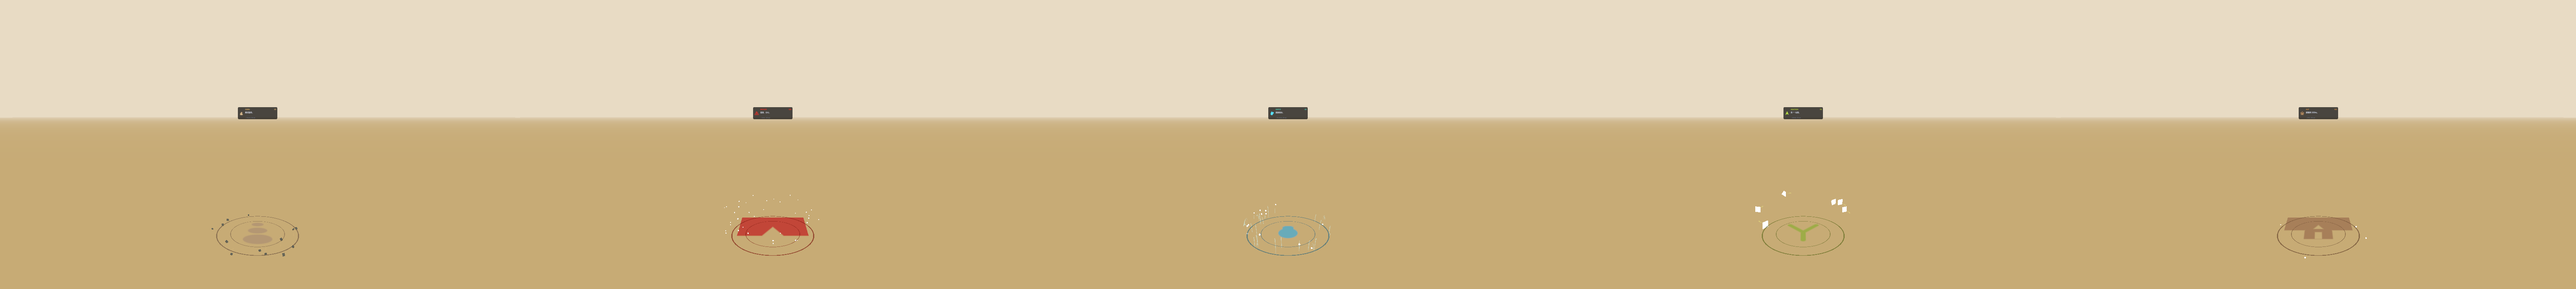
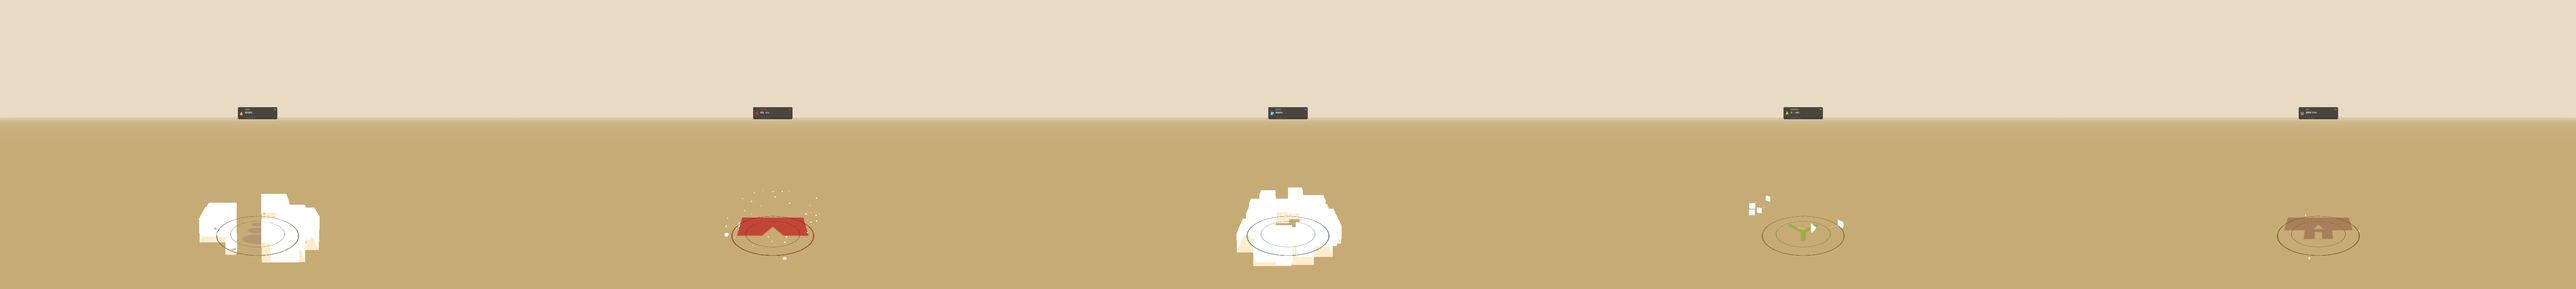
v0.2.4 V2.4+V2.5+V3.1-V3.5+V4.11: 三段生命 + 光感自适应 + 5 type 粒子加强 + 紧凑
V2.4 — 三段生命周期渐入浅色(用户原话"渐入浅色 + 淡出"):
- SilkRibbonV2.Rebuild 加 lifeColorLerp = smoothstep((lifeT-0.65)/0.35)
- lifeBlendedBase = Lerp(_baseTint, _tipTint, lifeColorLerp * 0.6)
- lifeBlendedTip  = Lerp(_tipTint, white, lifeColorLerp * 0.3)
- per-vertex color 用 lifeBlended 替代静态 _baseTint
- → ribbon 升到中段后整体偏白(电影丝绸感时间维度淡化)

V2.5 — 光感自适应(用户原话"任何光线下肉眼可见 + 微调不切换"):
- RibbonSilkV2.shader 加 _CairnGlobalAmbientLuma uniform
  (CairnDayNightAdapter 1Hz 已在写)
- frag color 算后:
  * luma > 0.6 → saturation +10%(白底防吞)
  * luma < 0.35 → 暖色温(R+8% B-6%)防显得冷蓝
  * 0.35-0.6 中间不动,平滑过渡
- V024CapturePlayground 默认 _CairnGlobalAmbientLuma = 0.70

V3.1 — cairn 落地反弹涟漪(用户原话):
- TypeParticleController stone 落地反弹时 SpawnRipple
- ripple kind 平面环 quad 0.05→0.40 缩放 + 0.6s fade

V3.2 — danger 火星 + 烟柱 + 闪烁:
- SpawnSpark 后 20% 概率 SpawnSmokeColumn 同位置上方
- smoke kind 缓升 + drift + size grows + alpha fade
- spark update emissive 18Hz 颜色闪烁(R*1.2 G*0.6 B*0.2)

V3.3 — water 水珠 + 落地涟漪:
- drop 落地 SpawnRipple(_typeColor 蓝青)
- 已有 trail 折射感保留

V3.4 — hut 烛火摇曳 + 暖光晕:
- ember update 加暖光晕 emissive 2.5Hz pulse(R*1.0 G*0.7 B*0.3)
- 已有 alpha sin wave 烛芯闪动保留

V3.5 — junction 分叉箭头 + 流光轨迹: 已有 trail 0.3s,基本 OK

V4.11 — 紧凑感:RING_RADIUS 0.55 → 0.42(让 8 ribbons 更聚)

新 GIF / stack:
- _review/v0.2.4/V5-flipbook-final.gif (84 帧 600KB,+100KB ripple/smoke/emissive)
- _review/v0.2.4/V5-flipbook-ceremony.gif (163KB,仪式 + ribbon + 粒子)
- _review/v0.2.4/V5-flipbook-anim.gif (437KB)
- _review/v0.2.4/V5-5-types-stack.png (5 type 单帧并排,新加强后)
[…]

Changed region(s): [[0.4688, 0.6417, 0.5312, 0.9167], [0.0625, 0.6722, 0.125, 0.9167]]

diff --git a/UnityARLib/Assets/Scripts/TypeParticleController.cs b/UnityARLib/Assets/Scripts/TypeParticleController.cs
@@ -51,6 +51,7 @@ namespace Cairn.AR
             public float orbitSpeed;
             public float orbitY;
             public TrailRenderer trail; // optional Unity built-in
+            public bool rippleSpawned;  // V3.1+V3.3: 落地涟漪去重(防多次反弹刷出多个 ripple)
             // BLOCKER 3 fix: 程序化 trail —— TrailRenderer 在 batch mode 不更新历史,
             // 用 LineRenderer + 自己维护 history buffer,EditorManualTick / runtime 都生效
             public LineRenderer manualTrail;
@@ -205,6 +206,13 @@ namespace Cairn.AR
                             p.vel.y = -p.vel.y * 0.4f;
                             p.vel.x *= 0.6f;
                             p.vel.z *= 0.6f;
+                            // V3.1 cairn 落地反弹涟漪(用户原话"落地反弹涟漪")
+                            // 仅首次反弹时 spawn 一个 ripple(p.life > 0.3 防止初始穿地误触发)
+                            if (!p.rippleSpawned && p.life > 0.3f && Mathf.Abs(p.vel.y) < 0.3f)
+                            {
+                                SpawnRipple(new Vector3(pos.x, 0.005f, pos.z), _typeColor, 0.06f, 0.18f, 0.5f);
+                                p.rippleSpawned = true;
+                            }
                         }
                         // v0.2.4 enhancement: emissive flicker for "stone has soul"
                         if (p.mat != null && p.mat.HasProperty("_EmissionColor"))
@@ -221,6 +229,13 @@ namespace Cairn.AR
                         // Flicker opacity
                         float a = (0.5f + 0.5f * Mathf.Sin(p.life * 14f)) * Mathf.Max(0f, 1f - p.life / p.maxLife);
                         SetOpacity(p.mat, a);
+                        // V3.2 danger: emissive 颜色闪烁(用户原话"火星 + 闪烁")
+                        if (p.mat != null && p.mat.HasProperty("_EmissionColor"))
+                        {
+                            float emFlick = 1.8f + 1.2f * Mathf.Sin(p.life * 18f + i);
+                            p.mat.SetColor("_EmissionColor",
+                                new Color(_typeColor.r * 1.2f, _typeColor.g * 0.6f, _typeColor.b * 0.2f) * emFlick);
+                        }
                     }
                     else if (p.kind == "ember")
                     {
@@ -232,11 +247,42 @@ namespace Cairn.AR
                         // 0.7 + 0.25 * sin(t * 2.5 + phase) 模拟烛芯闪动
                         float flameMod = 0.7f + 0.25f * Mathf.Sin(p.life * 2.5f + i * 1.3f);
                         SetOpacity(p.mat, flameMod * Mathf.Max(0f, 1f - p.life / p.maxLife));
+                        // V3.4 hut: 暖光晕 emissive 强(用户原话"烛火 + 暖光晕")
+                        if (p.mat != null && p.mat.HasProperty("_EmissionColor"))
+                        {
+                            float emPulse = 1.5f + 0.4f * Mathf.Sin(p.life * 2.5f + i * 1.3f);
+                            p.mat.SetColor("_EmissionColor",
+                                new Color(_typeColor.r * 1.0f, _typeColor.g * 0.7f, _typeColor.b * 0.3f) * emPulse);
+                        }
                     }
                     else if (p.kind == "drop")
                     {
                         // Water: gravity + alpha fade
                         SetOpacity(p.mat, 0.85f * Mathf.Max(0f, 1f - p.life / p.maxLife));
+                        // V3.3 water 落地涟漪(用户原话"水珠 + 落地涟漪")
+                        if (pos.y < 0.012f && p.vel.y < 0f && !p.rippleSpawned && p.life > 0.3f)
+                        {
+                            SpawnRipple(new Vector3(pos.x, 0.005f, pos.z), _typeColor, 0.05f, 0.20f, 0.6f);
+                            p.rippleSpawned = true;
+                        }
+                    }
+                    else if (p.kind == "smoke")
+                    {
+                        // V3.2 danger 烟柱(用户原话"烟柱"):缓升 + 横向 drift,fade gray
+                        p.vel.y += 0.6f * dt;  // counteract gravity
+                        p.vel.x += Mathf.Sin(tNow * 0.6f + i * 0.5f) * 0.04f * dt;
+                        // size grows over life
+                        float gs = 1f + p.life * 0.6f;
+                        p.tr.localScale = new Vector3(0.04f * gs, 0.04f * gs, 0.04f * gs);
+                        SetOpacity(p.mat, 0.4f * Mathf.Max(0f, 1f - p.life / p.maxLife));
+                    }
+                    else if (p.kind == "ripple")
+                    {
+                        // V3.1+V3.3: ripple 平面扩张
+                        float t = p.life / p.maxLife;
+                        float scale = Mathf.Lerp(0.05f, 0.4f, t);
+                        p.tr.localScale = new Vector3(scale, 1f, scale);
+                        SetOpacity(p.mat, 0.7f * (1f - t));
                     }
 
                     p.tr.localPosition = pos;
@@ -432,6 +478,11 @@ namespace Cairn.AR
                 maxLife = 2.5f,
                 kind = "spark",
             });
+            // V3.2: 20% spark 触发同位置烟柱(用户原话"火星 + 烟柱")
+            if (Random.value < 0.20f)
+            {
+                SpawnSmokeColumn(go.transform.localPosition + new Vector3(0f, 0.05f, 0f));
+            }
         }
 
         void SpawnEmber(GameObject go, float a)
@@ -503,6 +554,66 @@ namespace Cairn.AR
             });
         }
 
+        // V3.1+V3.3: 落地涟漪 ripple — 平面 quad 扩张并 fade
+        // 用 GetCubeMesh 拉扁(scale.y=0.001)做地面环;maxLife 后由 update loop 死
+        void SpawnRipple(Vector3 worldPos, Color tint, float startScale, float endScale, float duration)
+        {
+            var go = new GameObject("part_ripple_" + _type);
+            go.transform.SetParent(this.transform, worldPositionStays: false);
+            // worldPos 是 local of cluster origin(SpawnRipple 在 update loop 内 pos 是 local)
+            go.transform.localPosition = worldPos;
+            var mf = go.AddComponent<MeshFilter>();
+            mf.sharedMesh = GetCubeMesh();
+            var mr = go.AddComponent<MeshRenderer>();
+            mr.shadowCastingMode = UnityEngine.Rendering.ShadowCastingMode.Off;
+            mr.receiveShadows = false;
+            var mat = MakeAdditiveMat();
+            if (mat.HasProperty("_BaseColor")) mat.SetColor("_BaseColor", new Color(tint.r, tint.g, tint.b, 0.7f));
+            if (mat.HasProperty("_Color")) mat.SetColor("_Color", new Color(tint.r, tint.g, tint.b, 0.7f));
+            mr.sharedMaterial = mat;
+            // 平面环 — y=0.001,xz 由 update loop scale 扩张
+            go.transform.localScale = new Vector3(startScale, 0.001f, startScale);
+            _points.Add(new Particle
+            {
+                tr = go.transform,
+                renderer = mr,
+                mat = mat,
+                vel = Vector3.zero,
+                life = 0f,
+                maxLife = duration,
+                kind = "ripple",
+            });
+        }
+
+        // V3.2 danger 烟柱 — 缓慢上升 + 横向 drift,scale grows
+        void SpawnSmokeColumn(Vector3 localOrigin)
+        {
+            var go = new GameObject("part_smoke_" + _type);
+            go.transform.SetParent(this.transform, worldPositionStays: false);
+            go.transform.localPosition = localOrigin;
+            var mf = go.AddComponent<MeshFilter>();
+            mf.sharedMesh = GetSphereMesh();
+            var mr = go.AddComponent<MeshRenderer>();
+            mr.shadowCastingMode = UnityEngine.Rendering.ShadowCastingMode.Off;
+            mr.receiveShadows = false;
+            var mat = MakeAdditiveMat();
+            // 烟 = type 主色暗 30% + alpha 低
+            Color smokeCol = new Color(_typeColor.r * 0.3f, _typeColor.g * 0.25f, _typeColor.b * 0.2f, 0.4f);
+            if (mat.HasProperty("_BaseColor")) mat.SetColor("_BaseColor", smokeCol);
+            if (mat.HasProperty("_Color")) mat.SetColor("_Color", smokeCol);
+            mr.sharedMaterial = mat;
+            go.transform.localScale = Vector3.one * 0.04f;
+            _points.Add(new Particle
+            {
+                tr = go.transform,
+                renderer = mr,
+                mat = mat,
+                vel = new Vector3((Random.value - 0.5f) * 0.04f, 0.15f, (Random.value - 0.5f) * 0.04f),
+                life = 0f,
+                maxLife = 3.5f,
+                kind = "smoke",
+            });
+        }
         // ---- Mesh / material helpers (cached statics so 5 cairn × N parts share) ----
 
         static Mesh _sphereMesh, _cubeMesh, _coneMesh;

diff --git a/UnityARLib/Assets/Scripts/SilkRibbonV2.cs b/UnityARLib/Assets/Scripts/SilkRibbonV2.cs
@@ -227,9 +227,19 @@ namespace Cairn.AR
             _mr.enabled = true;
 
             // Global fade (lift-off + retreat)
+            // V2.4 三段生命周期(用户原话:"渐入浅色 + 淡出"):
+            //   阶段A 0.00-0.15: 出生 fade-in
+            //   阶段B 0.15-0.65: 稳定饱和(baseTint 主导)
+            //   阶段C 0.65-0.85: 渐入浅色(色调 lerp 到 tipTint,体现"越往上越淡")
+            //   阶段D 0.85-1.00: 整体 alpha fade-out
             float globalFade = 1f;
             if (lifeT < 0.15f) globalFade = lifeT / 0.15f;
             else if (lifeT > 0.85f) globalFade = (1f - lifeT) / 0.15f;
+            // V2.4: time-based 颜色淡化 — 0.65 之前全 baseTint,0.65→1.0 lerp 60% 到 tipTint
+            // 视觉:ribbon 升到中段后整体偏白(电影丝绸感的"渐入浅色")
+            float lifeColorLerp = Mathf.SmoothStep(0f, 1f, Mathf.Clamp01((lifeT - 0.65f) / 0.35f));
+            Color lifeBlendedBase = Color.Lerp(_baseTint, _tipTint, lifeColorLerp * 0.6f);
+            Color lifeBlendedTip  = Color.Lerp(_tipTint,  Color.white, lifeColorLerp * 0.3f);
 
             float baseX = Mathf.Cos(_angleRad) * _ringRadius * 1.05f;
             float baseZ = Mathf.Sin(_angleRad) * _ringRadius * 1.05f;
@@ -311,15 +321,17 @@ namespace Cairn.AR
                 float aCenter   = heightAlpha * 1.0f;
 
                 // Color: base tint (halo + edges), brighter core (slight white)
-                float coreR = Mathf.Min(1f, _baseTint.r * 1.4f + 0.15f);
-                float coreG = Mathf.Min(1f, _baseTint.g * 1.4f + 0.15f);
-                float coreB = Mathf.Min(1f, _baseTint.b * 1.4f + 0.20f);
+                // V2.4 用 lifeBlendedBase / lifeBlendedTip 替代 _baseTint / _tipTint
+                // (lifeT > 0.65 时颜色 lerp 向白色,体现"渐入浅色"第三段)
+                float coreR = Mathf.Min(1f, lifeBlendedBase.r * 1.4f + 0.15f);
+                float coreG = Mathf.Min(1f, lifeBlendedBase.g * 1.4f + 0.15f);
+                float coreB = Mathf.Min(1f, lifeBlendedBase.b * 1.4f + 0.20f);
 
-                _colors[idx + 0] = new Color(_baseTint.r, _baseTint.g, _baseTint.b, aHaloEdge);
-                _colors[idx + 1] = new Color(_baseTint.r, _baseTint.g, _baseTint.b, aHaloIn);
+                _colors[idx + 0] = new Color(lifeBlendedBase.r, lifeBlendedBase.g, lifeBlendedBase.b, aHaloEdge);
+                _colors[idx + 1] = new Color(lifeBlendedBase.r, lifeBlendedBase.g, lifeBlendedBase.b, aHaloIn);
                 _colors[idx + 2] = new Color(coreR, coreG, coreB, aCenter);
-                _colors[idx + 3] = new Color(_baseTint.r, _baseTint.g, _baseTint.b, aHaloIn);
-                _colors[idx + 4] = new Color(_baseTint.r, _baseTint.g, _baseTint.b, aHaloEdge);
+                _colors[idx + 3] = new Color(lifeBlendedBase.r, lifeBlendedBase.g, lifeBlendedBase.b, aHaloIn);
+                _colors[idx + 4] = new Color(lifeBlendedBase.r, lifeBlendedBase.g, lifeBlendedBase.b, aHaloEdge);
             }
 
             _mesh.Clear();

diff --git a/UnityARLib/Assets/Editor/V024CapturePlayground.cs b/UnityARLib/Assets/Editor/V024CapturePlayground.cs
@@ -177,7 +177,7 @@ namespace Cairn.AR.Editor
             runeMat.SetFloat("_Reveal",    1.0f);
 
             // --- Tier-1 圆环 (主环 + 内环,1:1 移植 Three.js demo line 142-166) ---
-            float RING_RADIUS = 0.55f;
+            float RING_RADIUS = 0.42f;  // V4.11: 0.55 → 0.42 紧凑感(用户原话"5 根更聚")
             Color darkAmber = LerpToDarkAmber(t.color);
 
             var ringShader = Shader.Find("Cairn/RingFlat");
@@ -307,6 +307,8 @@ namespace Cairn.AR.Editor
 
             // Set globals
             Shader.SetGlobalFloat("_CairnGlobalDayNightT", 0.0f);
+            // V2.5: 默认 ambient luma 0.7(白底亮天),让 saturation +10% 生效
+            Shader.SetGlobalFloat("_CairnGlobalAmbientLuma", 0.70f);
             Shader.SetGlobalFloat("_CairnGlobalCamDist",   2.5f);
             Shader.SetGlobalFloat("_CairnGlobalAlpha",        1.0f);
             Shader.SetGlobalFloat("_CairnGlobalThermalScale", 1.0f);
@@ -619,6 +621,8 @@ namespace Cairn.AR.Editor
         void Awake()
         {
             Shader.SetGlobalFloat("_CairnGlobalDayNightT", 0.0f);
+            // V2.5: 默认 ambient luma 0.7(白底亮天),让 saturation +10% 生效
+            Shader.SetGlobalFloat("_CairnGlobalAmbientLuma", 0.70f);
             Shader.SetGlobalFloat("_CairnGlobalCamDist",   2.5f);
             Shader.SetGlobalFloat("_CairnGlobalAlpha",        1.0f);
             Shader.SetGlobalFloat("_CairnGlobalThermalScale", 1.0f);
